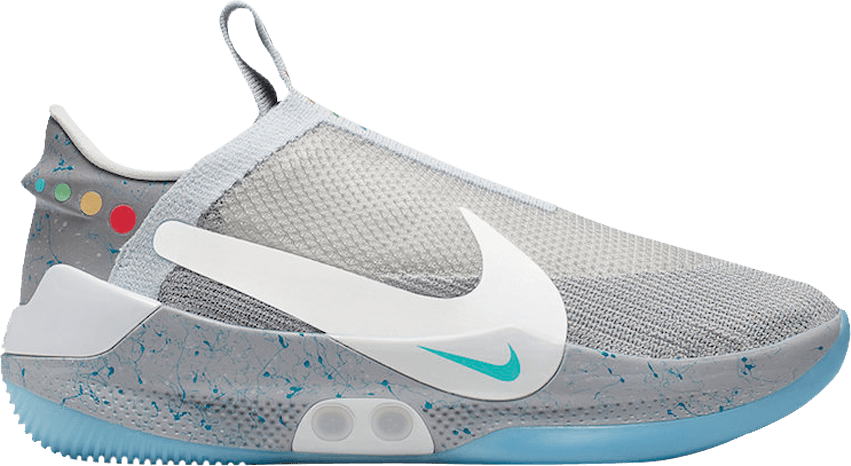
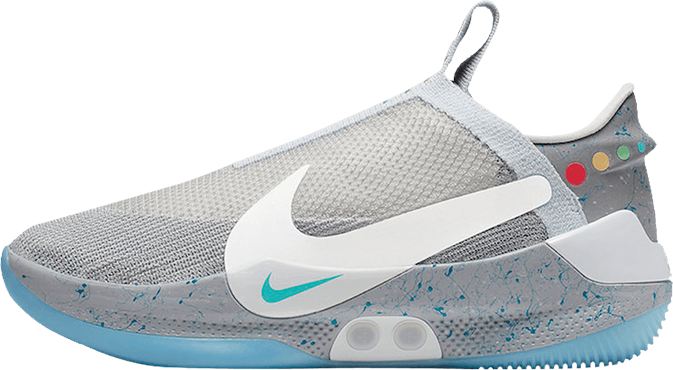
ds

diff --git a/src/css/style.css b/src/css/style.css
@@ -1,2 +1,2 @@
-header{background:#33c4c6;height:13rem}body{margin:0 auto}.menu-btn__line{display:block;width:24px;height:2px;margin-bottom:3px;background-color:#FFF;-webkit-transition:-webkit-transform 0.3s ease-in-out;transition:-webkit-transform 0.3s ease-in-out;-o-transition:transform 0.3s ease-in-out;transition:transform 0.3s ease-in-out;transition:transform 0.3s ease-in-out, -webkit-transform 0.3s ease-in-out;-webkit-transform-origin:left;-ms-transform-origin:left;transform-origin:left}.menu-btn__close{display:block;width:14px;height:2px;margin-bottom:3px;background-color:#FFF;-webkit-transition:-webkit-transform 0.3s ease-in-out;transition:-webkit-transform 0.3s ease-in-out;-o-transition:transform 0.3s ease-in-out;transition:transform 0.3s ease-in-out;transition:transform 0.3s ease-in-out, -webkit-transform 0.3s ease-in-out;-webkit-transform-origin:left;-ms-transform-origin:left;transform-origin:left}main{border-radius:50px}.container{display:-webkit-box;display:-ms-flexbox;display:flex}.container-span{margin-top:2rem;margin-left:14rem}figure{width:100%}.logo{width:3rem;margin-right:-1rem;margin-top:0.6rem;margin-left:-1rem}p{font-family:'Open Sans', sans-serif;font-size:1rem;text-align:justify;width:87%;margin-left:1.5rem;color:#b3b3b3}.box1{-webkit-box-flex:1;-ms-flex:1;flex:1}.box1{-webkit-box-flex:2;-ms-flex:2;flex:2}.box1{-webkit-box-flex:3;-ms-flex:3;flex:3}h3{margin-left:1.5rem;font-family:'Open Sans Condensed', sans-serif;font-size:1rem}h2{margin-left:1.5rem;font-family:'Open Sans Condensed', sans-serif;font-size:1.5rem}h1{color:white;margin-top:2rem;margin-left:1.5rem;font-family:'Open Sans Condensed', sans-serif;font-size:2rem;line-height:0.5rem}.adapt-bb{color:white;margin-left:1.5rem;font-family:'Open Sans Condensed', sans-serif;font-size:2rem;line-height:0}.shoes{width:12rem;margin-top:-4rem;margin-left:3rem}.sliderA{background:white;border-radius:50%;width:0.5rem;height:0.5rem;border:2px white;float:left;margin-left:5px}.sliderB{border-radius:50%;width:0.5rem;height:0.5rem;border:2px white;float:left;margin-left:5px;background:#b9eced}.sliderC{border-radius:50%;width:0.5rem;height:0.5rem;border:2px white;float:left;margin-left:5px;background:#b9eced}.contain-slider{margin-top:1rem;margin-left:1.5rem}.color-blue{border-radius:50%;width:1rem;height:1rem;border:2px white;float:left;margin-left:10px;background:#b9eced}.color-grey{border-radius:50%;width:1rem;height:1rem;border:2px white;float:left;margin-left:10px;background:#a3a3a3}.color-rose{border-radius:50%;width:1rem;height:1rem;border:2px white;float:left;margin-left:10px;background:#fa63a7}.princing{margin-left:12rem;margin-top:2rem}.ligne{border-bottom:1px solid #cbcbcb;margin-left:1.5rem;height:1rem}ul{list-style-type:none;margin:9px;overflow:hidden;margin-left:-1.5rem}li{float:left;margin:10px;font-family:'Open Sans Condensed', sans-serif;color:#b3b3b3;font-weight:bold}.black{color:black}.button{display:block;background:#79ccff;background:#30c5ca;background:-moz-linear-gradient(-45deg, #30c5ca 0%, #304eca 100%);background:-webkit-linear-gradient(-45deg, #30c5ca 0%, #304eca 100%);background:-webkit-linear-gradient(315deg, #30c5ca 0%, #304eca 100%);background:-o-linear-gradient(315deg, #30c5ca 0%, #304eca 100%);background:linear-gradient(135deg, #30c5ca 0%, #304eca 100%);padding:19px 8rem;color:white;border-radius:20px}.center-button{display:-webkit-box;display:-ms-flexbox;display:flex;-webkit-box-pack:center;-ms-flex-pack:center;justify-content:center;margin-left:-3rem}
+header{background:#33c4c6;height:13rem}body{margin:0 auto}.container-1{display:-webkit-box;display:-ms-flexbox;display:flex}.box-1{-webkit-box-flex:1;-ms-flex:1;flex:1}.box-2{-webkit-box-flex:2;-ms-flex:2;flex:2}.box-3{-webkit-box-flex:2;-ms-flex:2;flex:2}.menu-btn__line{display:block;width:24px;height:2px;margin-bottom:3px;background-color:#FFF;-webkit-transition:-webkit-transform 0.3s ease-in-out;transition:-webkit-transform 0.3s ease-in-out;-o-transition:transform 0.3s ease-in-out;transition:transform 0.3s ease-in-out;transition:transform 0.3s ease-in-out, -webkit-transform 0.3s ease-in-out;-webkit-transform-origin:left;-ms-transform-origin:left;transform-origin:left}.menu-btn__close{display:block;width:14px;height:2px;margin-bottom:3px;background-color:#FFF;-webkit-transition:-webkit-transform 0.3s ease-in-out;transition:-webkit-transform 0.3s ease-in-out;-o-transition:transform 0.3s ease-in-out;transition:transform 0.3s ease-in-out;transition:transform 0.3s ease-in-out, -webkit-transform 0.3s ease-in-out;-webkit-transform-origin:left;-ms-transform-origin:left;transform-origin:left}main{border-radius:50px}.container{display:-webkit-box;display:-ms-flexbox;display:flex}.container-span{margin-top:2rem;margin-left:14rem}figure{width:100%}.logo{width:3rem;margin-right:-1rem;margin-top:0.6rem;margin-left:-1rem}p{font-family:'Open Sans', sans-serif;font-size:1rem;text-align:justify;width:87%;margin-left:1.5rem;color:#b3b3b3}.box1{-webkit-box-flex:1;-ms-flex:1;flex:1}.box1{-webkit-box-flex:2;-ms-flex:2;flex:2}.box1{-webkit-box-flex:3;-ms-flex:3;flex:3}h3{margin-left:1.5rem;font-family:'Open Sans Condensed', sans-serif;font-size:1rem}h2{margin-left:1.5rem;font-family:'Open Sans Condensed', sans-serif;font-size:1.5rem}h1{color:white;margin-top:2rem;margin-left:1.5rem;font-family:'Open Sans Condensed', sans-serif;font-size:2rem;line-height:0.5rem}.adapt-bb{color:white;margin-left:1.5rem;font-family:'Open Sans Condensed', sans-serif;font-size:2rem;line-height:0}.shoes{width:12rem;margin-top:-6rem;margin-left:1rem}.sliderA{background:white;border-radius:50%;width:0.5rem;height:0.5rem;border:2px white;float:left;margin-left:5px}.sliderB{border-radius:50%;width:0.5rem;height:0.5rem;border:2px white;float:left;margin-left:5px;background:#b9eced}.sliderC{border-radius:50%;width:0.5rem;height:0.5rem;border:2px white;float:left;margin-left:5px;background:#b9eced}.contain-slider{margin-top:1rem;margin-left:1.5rem}.color-blue{border-radius:50%;width:1rem;height:1rem;border:2px white;float:left;margin-left:10px;background:#b9eced}.color-grey{border-radius:50%;width:1rem;height:1rem;border:2px white;float:left;margin-left:10px;background:#a3a3a3}.color-rose{border-radius:50%;width:1rem;height:1rem;border:2px white;float:left;margin-left:10px;background:#fa63a7}.princing{margin-left:12rem;margin-top:2rem}.ligne{border-bottom:1px solid #cbcbcb;margin-left:1.5rem;height:1rem}ul{list-style-type:none;margin:9px;overflow:hidden;margin-left:-1.5rem}li{float:left;margin:10px;font-family:'Open Sans Condensed', sans-serif;color:#b3b3b3;font-weight:bold}.black{color:black}.button{display:block;background:#79ccff;background:#30c5ca;background:-moz-linear-gradient(-45deg, #30c5ca 0%, #304eca 100%);background:-webkit-linear-gradient(-45deg, #30c5ca 0%, #304eca 100%);background:-webkit-linear-gradient(315deg, #30c5ca 0%, #304eca 100%);background:-o-linear-gradient(315deg, #30c5ca 0%, #304eca 100%);background:linear-gradient(135deg, #30c5ca 0%, #304eca 100%);padding:19px 8rem;color:white;border-radius:20px}.center-button{display:-webkit-box;display:-ms-flexbox;display:flex;-webkit-box-pack:center;-ms-flex-pack:center;justify-content:center;margin-left:-3rem}
 /*# sourceMappingURL=style.css.map */

diff --git a/index.html b/index.html
@@ -12,23 +12,24 @@
     <title>Document</title>
 
     <header>
-        <div class="container">
-                <div class="box1">
+        <div class="container-1">
+                <div class="box-1">
                         <figure>
                                 <img src="src/img/Nike_logo.png" alt="" class="logo">
                         </figure>
                     </div>
-            <div class="box2"></div>
-                    <div class="box3">
+    
+                    <div class="box-2
+                    ">
                         <div class="container-span">
                           
                                 <span class="menu-btn__close"></span> 
                                 <span class="menu-btn__line"></span>
                         </div>     
-                    </div>
-             </div>
+            </div>
+         </div>
 
-        <h1>Nike </h1>
+        <h1>Nike</h1>
 
         <span class="adapt-bb">Adapt BB</span>
           <div class="contain-slider">

diff --git a/src/scss/view/body.scss b/src/scss/view/body.scss
@@ -4,8 +4,28 @@ header{
 
  
 }
+
+
 body{
     margin: 0 auto; 
+}
+
+.container-1{
+display:flex;
+}
+
+.box-1{
+flex:1;
+}
+
+
+.box-2{
+  flex:2;  
+}
+
+
+.box-3{
+    flex:2;
 }
 .menu-btn__line {
   display: block;
@@ -15,9 +35,9 @@ body{
   background-color: #FFF;
   transition: transform 0.3s ease-in-out;
   transform-origin: left;
-
-
   }
+
+
 .menu-btn__close{
     display: block;
     width: 14px;
@@ -105,8 +125,8 @@ h1{
 
 .shoes{
     width: 12rem;
-    margin-top: -4rem;
-    margin-left: 3rem;
+    margin-top: -6rem;
+    margin-left: 1rem;
 }
 
 .sliderA{
